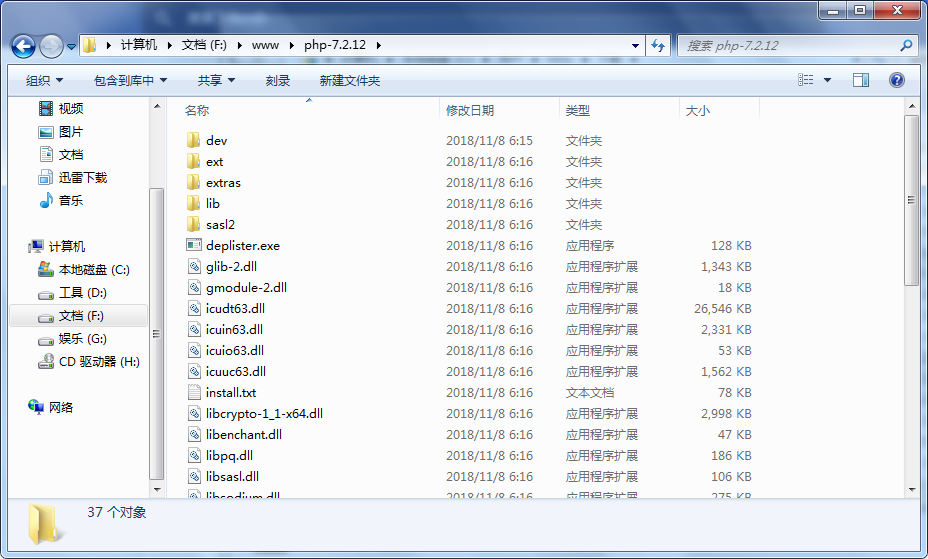
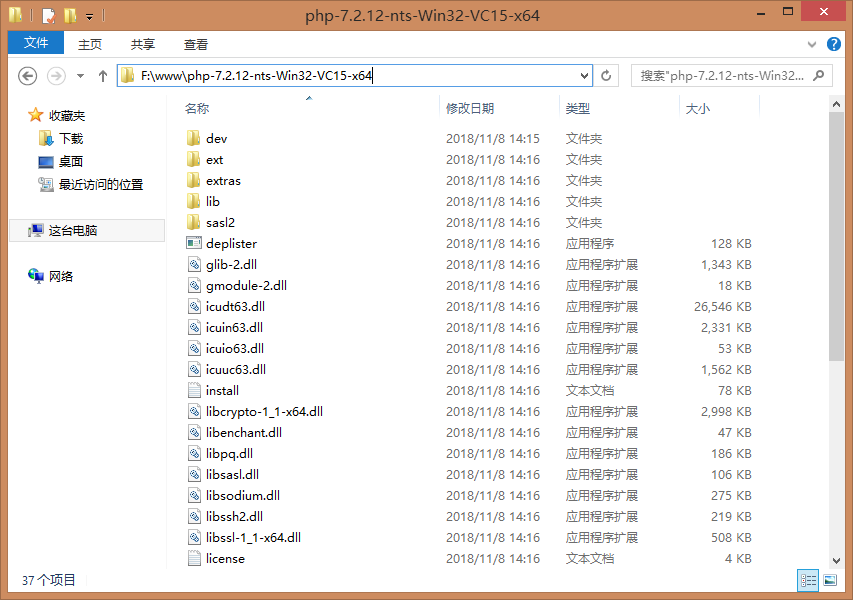
php window 配置全局环境

diff --git a/_posts/2014-07-20-window-php-install.md b/_posts/2014-07-20-window-php-install.md
@@ -22,8 +22,23 @@ description: window操作系统安装php7
 ![3.png](/source/images/window-php-install/3.png)
 
 ## 安装PHP
-下载刚刚上面的PHP包，后解压到指定的目录，我这里解压到`F:\www\php-7.2.12`
+下载刚刚上面的PHP包，后解压到指定的目录，我这里解压到`F:\www\php-7.2.12-nts-Win32-VC15-x64`
 ![4.png](/source/images/window-php-install/4.png)
+
+使用快捷键`win + r`然乎输入`cmd`回车打开CMD窗口
+![5.png](/source/images/window-php-install/5.png)
+进入PHP解压的目录，运行`php.exe -v`测试
+![6.png](/source/images/window-php-install/6.png)
+
+### 配置到全局环境
+为了能够全局可以调用php.exe，我们需要把php配置到系统的全局环境变量中，
+`我的电脑->右键->系统属性->高级系统设置->环境变量->找到path->点击编辑`
+![7.png](/source/images/window-php-install/7.png)
+
+然后加上你的`;php目录的地址`，我这里是`;F:\www\php-7.2.12-nts-Win32-VC15-x64`
+![8.png](/source/images/window-php-install/8.png)
+然后就可以全局调用php.exe了
+![9.png](/source/images/window-php-install/9.png)
 
 
 

diff --git a/_posts/2017-07-20-window-jekyll.md b/_posts/2017-07-20-window-jekyll.md
@@ -43,7 +43,7 @@ description: window系统安装jekyll
 ### 2.2错误
 运行`jekyll serve`可能会报错，一般情况是缺少库
 ![7.png](/source/images/window-jekyll/7.png)
-只要`gem install 缺少的库`就可以了
+只要`gem install 缺少的库`就可以了,如`gem install tzinfo`
 
 —End—
 
